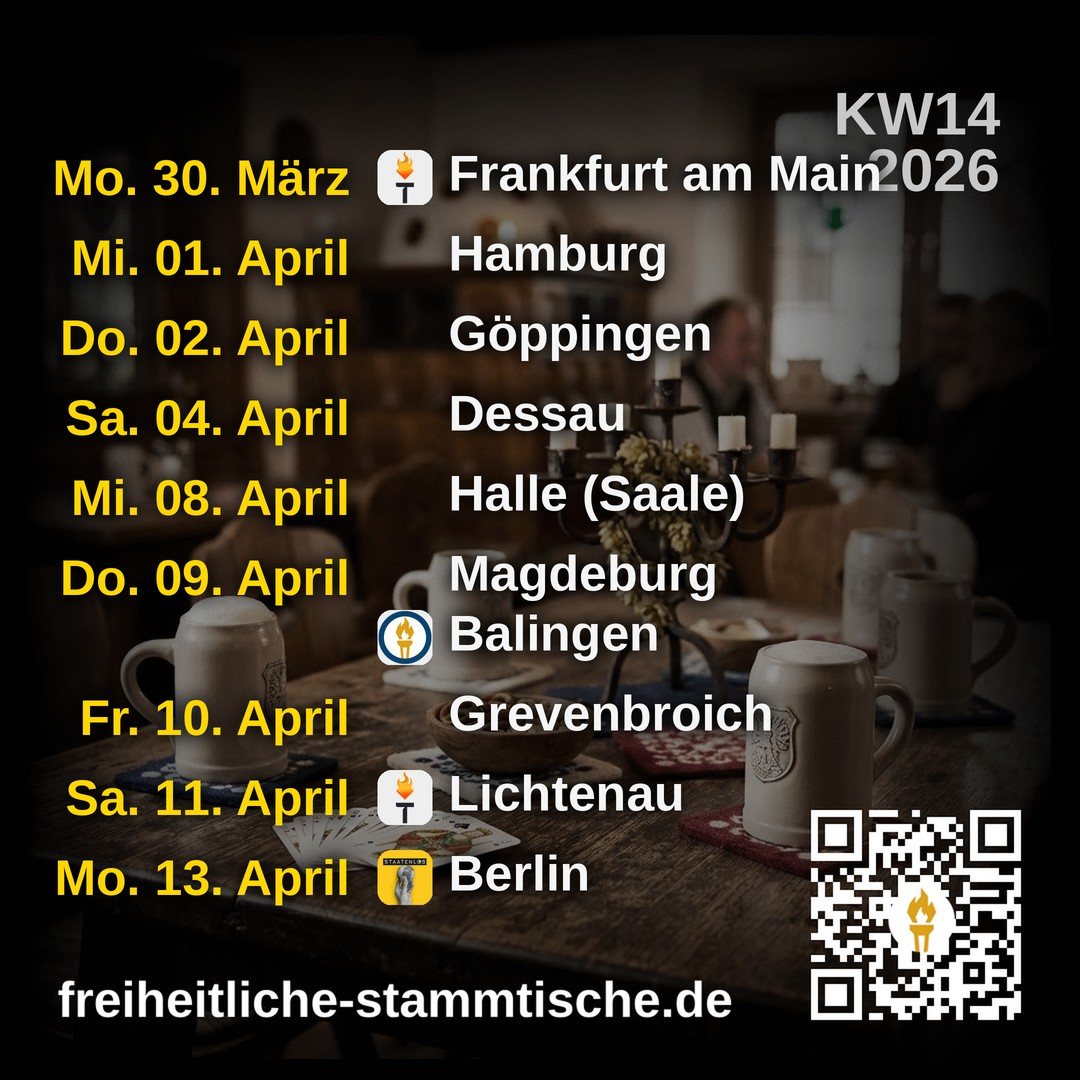
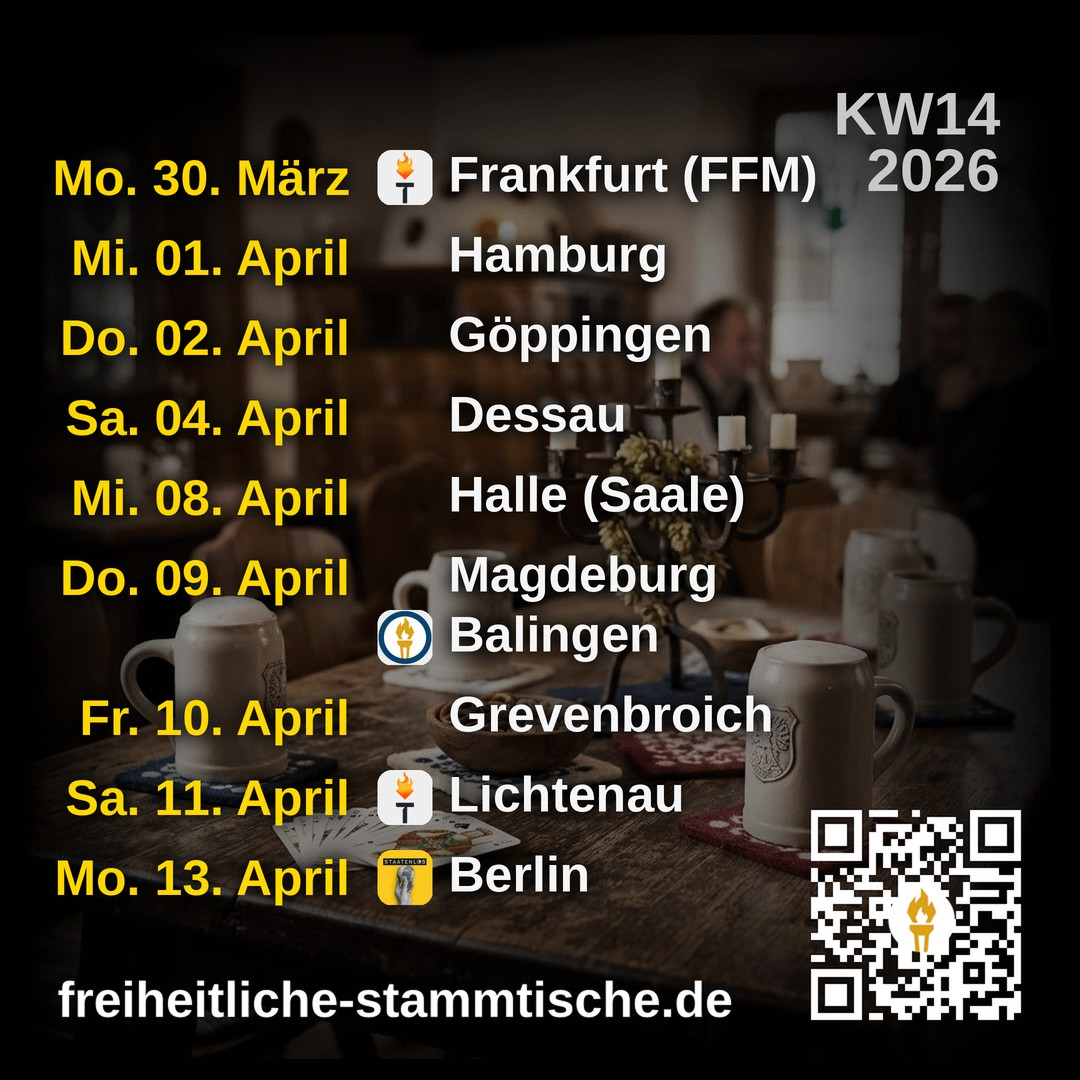
wip

diff --git a/scripts/generate_social_image.py b/scripts/generate_social_image.py
@@ -11,6 +11,7 @@
 Generate social media image for the upcoming Stammtisch events.
 
 Options:
+    --no-cache        Ignore cached images (always regen).
     --kw <weeknum>    Generate image for calendar week number (e.g. 12).
                       Assumes a date in the future.
     --help            Show this help message and exit.
@@ -34,7 +35,8 @@ log = logging.getLogger(name="gsheet_util.py")
 
 
 # Configuration
-WIDTH, HEIGHT = 1080, 1080
+WIDTH, HEIGHT = 2160, 2160
+LOGO_SIZE = 110
 BG_COLOR = (12, 12, 12)  # Deeper dark theme
 TEXT_COLOR = (245, 245, 245)
 ACCENT_COLOR = (255, 215, 0)  # Gold/Yellow accent
@@ -150,17 +152,20 @@ def images_manifest_ctx() -> dict[str, str]:
     manifest_tmp_path.rename(MANIFEST_PATH)
 
 
-def generate_image(events, start_date) -> pl.Path:
+def generate_image(events, start_date, no_cache: bool=False) -> pl.Path:
     kw_monday = start_date + dt.timedelta(days=1)
     kw_year, kw_num, _ = kw_monday.isocalendar()
     output_path = OUTPUT_DIR / f"social_events_{kw_year}_KW{kw_num:02d}.jpg"
 
     events_json = json.dumps(events, sort_keys=True).encode("utf-8")
-    events_hash = hl.sha256(events_json).hexdigest()
-    with images_manifest_ctx() as manifest:
-        if manifest.get(str(output_path.name)) == events_hash:
-            log.info(f"Data unchanged for {output_path.name}")
-            return output_path
+    events_hash = hl.sha256(events_json + f"{kw_year}KW{kw_num}".encode("ascii")).hexdigest()
+
+    use_cache = not no_cache
+    if use_cache:
+        with images_manifest_ctx() as manifest:
+            if manifest.get(str(output_path.name)) == events_hash:
+                log.info(f"Data unchanged for {output_path.name}")
+                return output_path
 
     bg_path = OUTPUT_DIR / "events_bg.png"
     if bg_path.exists():
@@ -173,32 +178,32 @@ def generate_image(events, start_date) -> pl.Path:
     draw = ImageDraw.Draw(img)
     
     # Load fonts
-    headline_font = ImageFont.truetype("/usr/share/fonts/truetype/liberation/LiberationSans-Bold.ttf", 50)
-    kw_font = ImageFont.truetype("/usr/share/fonts/truetype/liberation/LiberationSans-Bold.ttf", 60)
-    date_font = ImageFont.truetype("/usr/share/fonts/truetype/liberation/LiberationSans-Bold.ttf", 50)
-    text_font = ImageFont.truetype("/usr/share/fonts/truetype/liberation/LiberationSans-Bold.ttf", 50)
-    footer_font = ImageFont.truetype("/usr/share/fonts/truetype/liberation/LiberationSans-Regular.ttf", 42)
-    small_font = ImageFont.truetype("/usr/share/fonts/truetype/liberation/LiberationSans-Regular.ttf", 28)
+    headline_font = ImageFont.truetype("/usr/share/fonts/truetype/liberation/LiberationSans-Bold.ttf", 100)
+    kw_font = ImageFont.truetype("/usr/share/fonts/truetype/liberation/LiberationSans-Bold.ttf", 120)
+    date_font = ImageFont.truetype("/usr/share/fonts/truetype/liberation/LiberationSans-Bold.ttf", 100)
+    text_font = ImageFont.truetype("/usr/share/fonts/truetype/liberation/LiberationSans-Bold.ttf", 100)
+    footer_font = ImageFont.truetype("/usr/share/fonts/truetype/liberation/LiberationSans-Regular.ttf", 84)
+    small_font = ImageFont.truetype("/usr/share/fonts/truetype/liberation/LiberationSans-Regular.ttf", 56)
 
     # Add timeframe top right
-    # draw.text(text="STAMMTISCH\nTERMINE", xy=(WIDTH - 60, 60), spacing=6, font=headline_font, fill=TEXT_COLOR, anchor="ra", align="right")
-    # draw.text(text=f"KW{kw_num:02d}\n{kw_year}", xy=(60, 60), font=kw_font, fill=TEXT_COLOR, anchor="la", align="left")
-    draw.text(text=f"KW{kw_num:02d}\n{kw_year}", xy=(WIDTH - 80, 80), font=kw_font, fill=(200, 200, 200), anchor="ra", align="right")
+    # draw.text(text="STAMMTISCH\nTERMINE", xy=(WIDTH - 120, 120), spacing=12, font=headline_font, fill=TEXT_COLOR, anchor="ra", align="right")
+    # draw.text(text=f"KW{kw_num:02d}\n{kw_year}", xy=(120, 120), font=kw_font, fill=TEXT_COLOR, anchor="la", align="left")
+    draw.text(text=f"KW{kw_num:02d}\n{kw_year}", xy=(WIDTH - 160, 160), font=kw_font, fill=(200, 200, 200), anchor="ra", align="right")
 
     # Events offset
-    y_offset = 150
-    row_height = 80
+    y_offset = 300
+    row_height = 160
     max_events = 8
     
     # Center events area
-    x_margin = 380
+    x_margin = 700
 
     shadow_layer = Image.new("RGBA", (WIDTH, HEIGHT), (0, 0, 0, 0))
     shadow_draw = ImageDraw.Draw(shadow_layer)
     text_layer = Image.new("RGBA", (WIDTH, HEIGHT), (0, 0, 0, 0))
     text_draw = ImageDraw.Draw(text_layer)
 
-    def draw_shadowed_text(text, xy, shadow_offset=2, **kwargs):
+    def draw_shadowed_text(text, xy, shadow_offset=4, **kwargs):
         text_draw.text(text=text, xy=xy, **kwargs)
         kwargs.pop("fill")
 
@@ -207,11 +212,9 @@ def generate_image(events, start_date) -> pl.Path:
         shadow_draw.text(text=text, xy=(xy[0] - shadow_offset, xy[1] + shadow_offset), fill=(0, 0, 0, 255), **kwargs)
         shadow_draw.text(text=text, xy=(xy[0] + shadow_offset, xy[1] + shadow_offset), fill=(0, 0, 0, 255), **kwargs)
     
-    prev_city = None
-    prev_display_date = None
-
+    # Group events by (date, city)
+    grouped_events = {}
     for event in events:
-        # Date and Day (Left aligned)
         date = dt.datetime.strptime(event["date"], "%Y-%m-%d")
         day_name = date.strftime("%A")
         short_day = DAY_MAP[day_name] + "."
@@ -221,48 +224,106 @@ def generate_image(events, start_date) -> pl.Path:
         day_str = date.strftime("%d")
         display_date = f"{short_day} {day_str}. {short_month}"
 
+        key = (display_date, event["city"])
+        if key not in grouped_events:
+            grouped_events[key] = {"date": display_date, "city": event["city"], "orgas": []}
+        
+        orga = event.get("orga") or "Unabhängig"
+        if orga not in grouped_events[key]["orgas"]:
+            grouped_events[key]["orgas"].append(orga)
+
+    prev_display_date = None
+    prev_logo_path = None
+    logo_tasks = []
+
+    for key, group in grouped_events.items():
+        display_date = group["date"]
+        city = group["city"]
+        city = city.replace("Frankfurt am Main", "Frankfurt (FFM)")
+        orgas = group["orgas"]
+
         if display_date == prev_display_date:
-            if prev_city == event["city"]:
-                continue
-            y_offset -= 20
+            y_offset -= 40
         else:
-            draw_shadowed_text(text=display_date, xy=(x_margin, y_offset + 25), font=date_font, letter_spacing=-2, fill=ACCENT_COLOR, anchor="rm")
+            xy = (x_margin, y_offset + LOGO_SIZE // 2)
+            draw_shadowed_text(text=display_date, xy=xy, font=date_font, letter_spacing=-4, fill=ACCENT_COLOR, anchor="rm")
 
         prev_display_date = display_date
-        prev_city = event["city"]
+        logo_x = x_margin + LOGO_SIZE // 2
+
+        for orga in orgas:
+            logo_filename, logo_bg = get_orga_logo(orga)
+            logo_path = pl.Path("www/img") / logo_filename
+            if logo_path.exists():
+                if logo_path != prev_logo_path:
+                    logo_tasks.append((logo_path, logo_bg, (logo_x, y_offset)))
+
+                prev_logo_path = logo_path
+                logo_x += LOGO_SIZE + 16
         
-        max_chars = 20
-        wrapped_city = textwrap.wrap(event["city"], width=max_chars)
+        city_x = max(x_margin + 100, logo_x + 16)
+        shift = city_x - (x_margin + 100)
+        chars_to_reduce = int(shift / 50)
+        max_chars = max(10, 20 - chars_to_reduce)
+        
+        wrapped_city = textwrap.wrap(city, width=max_chars)
         
         for line in wrapped_city:
-            draw_shadowed_text(text=line, xy=(x_margin + 50, y_offset - 5), font=text_font, fill=TEXT_COLOR)
-            y_offset += 50
+            draw_shadowed_text(text=line, xy=(city_x, y_offset - 8), font=text_font, fill=TEXT_COLOR)
+            y_offset += 100
         
-        y_offset += 30
+        y_offset += 60
 
-        if y_offset > HEIGHT - 220:
+        if y_offset > HEIGHT - 440:
             break
         
-    shadow_layer = shadow_layer.filter(ImageFilter.GaussianBlur(radius=8))
+    shadow_layer = shadow_layer.filter(ImageFilter.GaussianBlur(radius=18))
     img.paste(shadow_layer, (0, 0), shadow_layer)
     img.paste(text_layer, (0, 0), text_layer)
+    
+    def hex_to_rgb(hex_str: str) -> tuple[int, int, int]:
+        hex_str = hex_str.lstrip('#')
+        if len(hex_str) == 3:
+            hex_str = ''.join(c + c for c in hex_str)
+        return tuple(int(hex_str[i:i+2], 16) for i in (0, 2, 4))
+
+    for logo_path, logo_bg, xy in logo_tasks:
+        try:
+            logo = Image.open(logo_path).convert("RGBA")
+            logo.thumbnail((LOGO_SIZE, LOGO_SIZE), Image.Resampling.LANCZOS)
+            
+            # create mask for rounded rectangle
+            mask = Image.new("L", (LOGO_SIZE, LOGO_SIZE), 0)
+            mask_draw = ImageDraw.Draw(mask)
+            mask_draw.rounded_rectangle((0, 0, LOGO_SIZE, LOGO_SIZE), radius=28, fill=255)
+            
+            # create background layer
+            bg_color = hex_to_rgb(logo_bg)
+            bg_layer = Image.new("RGBA", (LOGO_SIZE, LOGO_SIZE), (*bg_color, 255))
+            
+            # center icon on bg (in case thumbnail is smaller than 44x44)
+            logo_x = (LOGO_SIZE - logo.width) // 2
+            logo_y = (LOGO_SIZE - logo.height) // 2
+            bg_layer.paste(logo, (logo_x, logo_y), logo)
+            
+            # paste onto main image using rounded mask
+            img.paste(bg_layer, xy, mask)
+        except Exception as e:
+            log.error(f"Failed to load icon {logo_path}: {e}")
 
     # QR Code
     # import qrcode
-    # qr = qrcode.QRCode(version=1, box_size=4, border=2)
-    # qr.add_data(URL)
-    # qr.make(fit=True)
-    # qr_img = qr.make_image(fill_color="white", back_color="black").convert('RGB')
-
-    # Make QR slightly accent-tinted or just white on dark
-    # qr_img = qr_img.resize((240, 240))
-    # img.paste(qr_img, (WIDTH - 290, HEIGHT - 290))
+    # qr = qrcode.QRCode(version=1, box_size=8, border=4)
+    # ...
+    # qr_img = qr_img.resize((480, 480))
+    # img.paste(qr_img, (WIDTH - 580, HEIGHT - 580))
 
     # footer_text = "freiheitliche-stammtische.de"
-    # draw_text(draw, text=footer_text, xy=(x_margin, HEIGHT - 150), font=footer_font, fill=ACCENT_COLOR)
-    # draw_text(draw, text="Alle Libertären Treffen auf einen Blick", xy=(x_margin, HEIGHT - 90), font=small_font, fill=SECONDARY_TEXT_COLOR)
+    # draw_text(draw, text=footer_text, xy=(x_margin, HEIGHT - 300), font=footer_font, fill=ACCENT_COLOR)
+    # draw_text(draw, text="Alle Libertären Treffen auf einen Blick", xy=(x_margin, HEIGHT - 180), font=small_font, fill=SECONDARY_TEXT_COLOR)
 
-    img.save(output_path, quality=85)
+    final_img = img.resize((1080, 1080), Image.Resampling.LANCZOS)
+    final_img.save(output_path, quality=90)
     shutil.copy(output_path, SOCIAL_IMG_PATH)
 
     with images_manifest_ctx() as manifest:
@@ -271,14 +332,14 @@ def generate_image(events, start_date) -> pl.Path:
     return output_path
 
 
-def gen_image(start_date: dt.date):
+def gen_image(start_date: dt.date, no_cache: bool = False):
     with DATA_PATH.open(mode="r") as fobj:
         events = json.load(fobj)
 
-    filtered = filter_events(events, start_date)
+    filtered_events = filter_events(events, start_date)
 
-    if filtered:
-        generate_image(filtered, start_date)
+    if filtered_events:
+        generate_image(filtered_events, start_date, no_cache=no_cache)
     else:
         log.warn(f"No events found for week starting {start_date.strftime('%Y-%m-%d')}")
 
@@ -308,7 +369,7 @@ def main():
     else:
         start_date = get_next_week_start()
     
-    gen_image(start_date)
+    gen_image(start_date, no_cache=args.no_cache)
 
 if __name__ == "__main__":
     main()

diff --git a/scripts/gsheet_util.py b/scripts/gsheet_util.py
@@ -1,4 +1,4 @@
-#!/usr/bin/env -S uv run --script
+#!/usr/bin/env -S uv run --exclude-newer 2026-02-01 --script
 # /// script
 # requires-python = ">=3.13"
 # dependencies = [
@@ -6,7 +6,7 @@
 #   "requests~=2.32.3",
 #   "geopy~=2.4.1",
 #   "qrcode~=8.2",
-#   "Pillow~=12.1.0",
+#   "Pillow~=11.3.0",
 #   "google-api-python-client~=2.188.0",
 #   "google-auth~=2.38.0",
 # ]
@@ -29,7 +29,6 @@ Options:
     -q, --quiet                Enable quiet logging
     -h, --help                 Show this help message and exit
 """
-
 import io
 import re
 import sys
